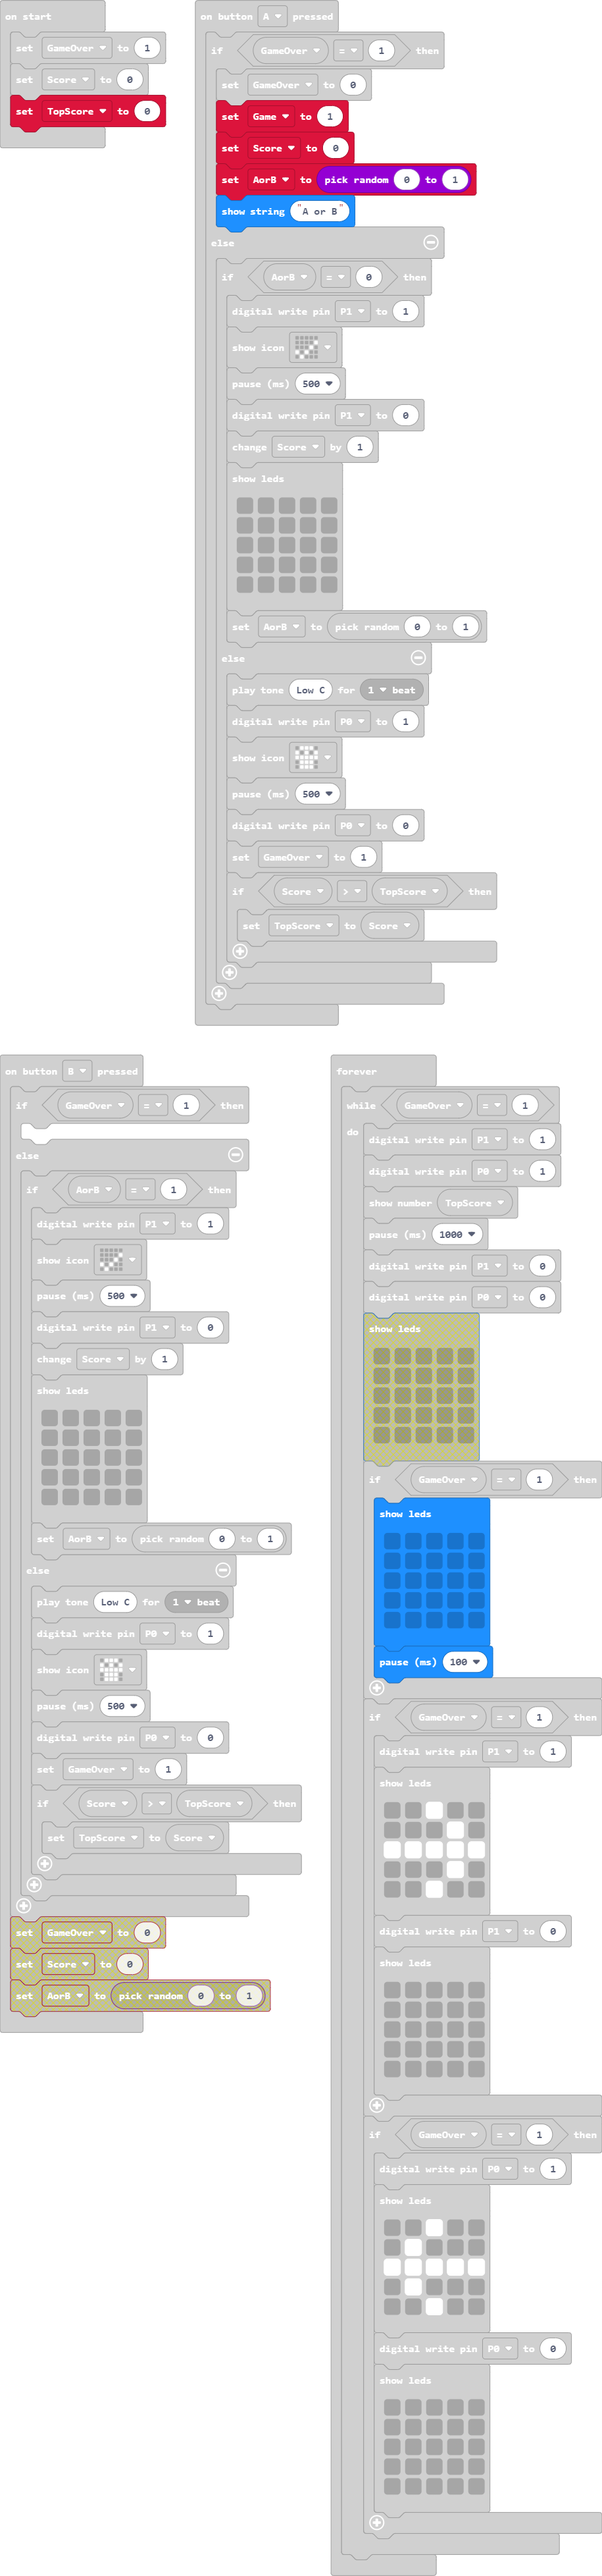
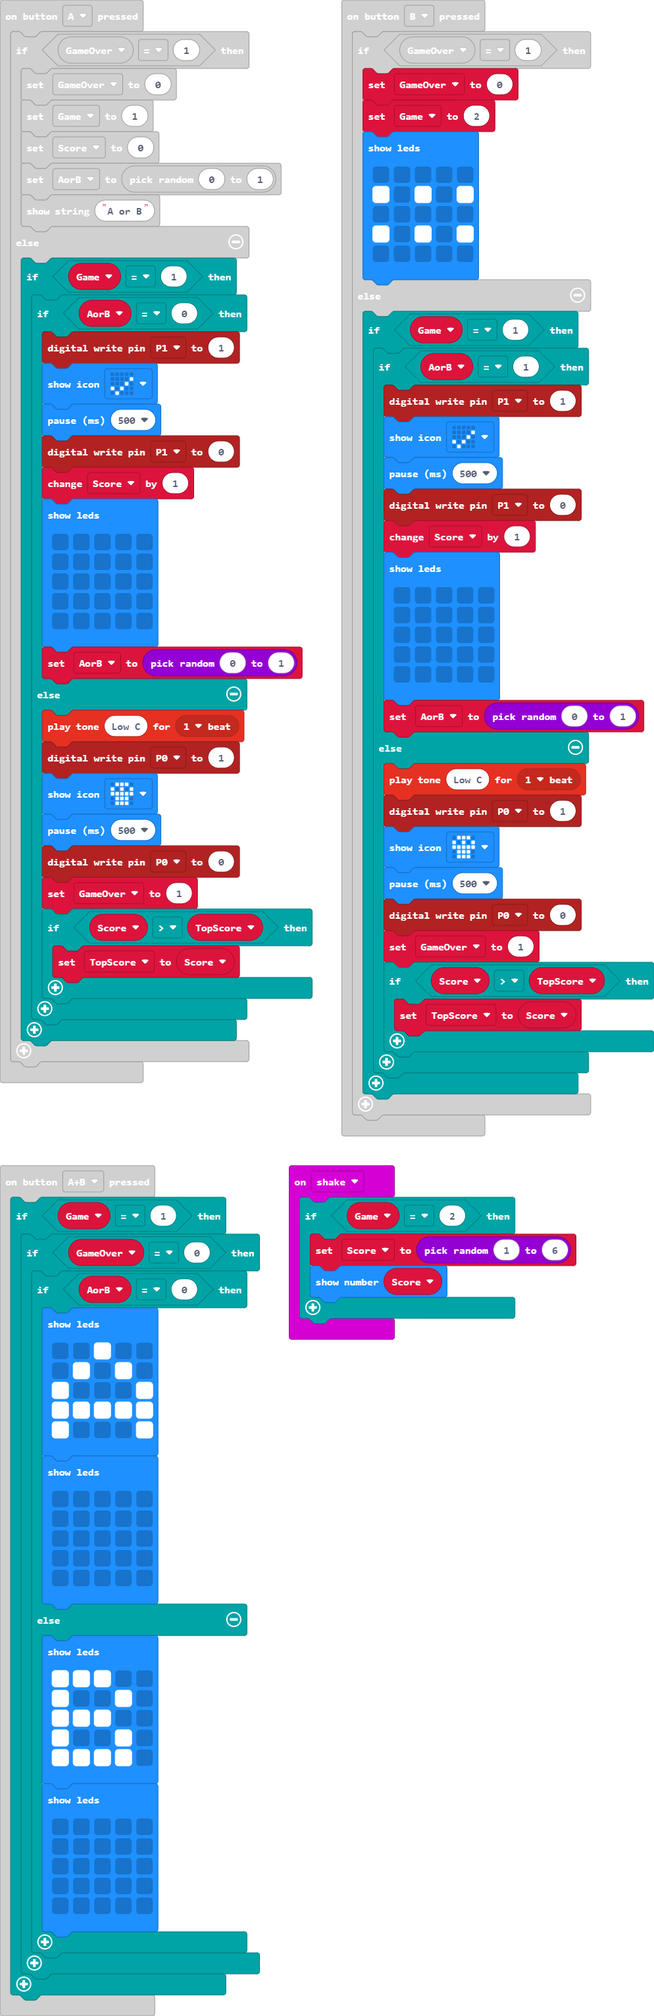
Added shake dice game

diff --git a/main.ts b/main.ts
@@ -6,97 +6,117 @@ input.onButtonPressed(Button.A, function () {
         AorB = randint(0, 1)
         basic.showString("A or B")
     } else {
-        if (AorB == 0) {
-            pins.digitalWritePin(DigitalPin.P1, 1)
-            basic.showIcon(IconNames.Yes)
-            basic.pause(500)
-            pins.digitalWritePin(DigitalPin.P1, 0)
-            Score += 1
-            basic.showLeds(`
-                . . . . .
-                . . . . .
-                . . . . .
-                . . . . .
-                . . . . .
-                `)
-            AorB = randint(0, 1)
-        } else {
-            music.playTone(131, music.beat(BeatFraction.Whole))
-            pins.digitalWritePin(DigitalPin.P0, 1)
-            basic.showIcon(IconNames.Skull)
-            basic.pause(500)
-            pins.digitalWritePin(DigitalPin.P0, 0)
-            GameOver = 1
-            if (Score > TopScore) {
-                TopScore = Score
+        if (Game == 1) {
+            if (AorB == 0) {
+                pins.digitalWritePin(DigitalPin.P1, 1)
+                basic.showIcon(IconNames.Yes)
+                basic.pause(500)
+                pins.digitalWritePin(DigitalPin.P1, 0)
+                Score += 1
+                basic.showLeds(`
+                    . . . . .
+                    . . . . .
+                    . . . . .
+                    . . . . .
+                    . . . . .
+                    `)
+                AorB = randint(0, 1)
+            } else {
+                music.playTone(131, music.beat(BeatFraction.Whole))
+                pins.digitalWritePin(DigitalPin.P0, 1)
+                basic.showIcon(IconNames.Skull)
+                basic.pause(500)
+                pins.digitalWritePin(DigitalPin.P0, 0)
+                GameOver = 1
+                if (Score > TopScore) {
+                    TopScore = Score
+                }
             }
         }
     }
 })
 input.onButtonPressed(Button.AB, function () {
-    if (GameOver == 0) {
-        if (AorB == 0) {
-            basic.showLeds(`
-                . . # . .
-                . # . # .
-                # . . . #
-                # # # # #
-                # . . . #
-                `)
-            basic.showLeds(`
-                . . . . .
-                . . . . .
-                . . . . .
-                . . . . .
-                . . . . .
-                `)
-        } else {
-            basic.showLeds(`
-                # # # . .
-                # . . # .
-                # # # . .
-                # . . # .
-                # # # # .
-                `)
-            basic.showLeds(`
-                . . . . .
-                . . . . .
-                . . . . .
-                . . . . .
-                . . . . .
-                `)
+    if (Game == 1) {
+        if (GameOver == 0) {
+            if (AorB == 0) {
+                basic.showLeds(`
+                    . . # . .
+                    . # . # .
+                    # . . . #
+                    # # # # #
+                    # . . . #
+                    `)
+                basic.showLeds(`
+                    . . . . .
+                    . . . . .
+                    . . . . .
+                    . . . . .
+                    . . . . .
+                    `)
+            } else {
+                basic.showLeds(`
+                    # # # . .
+                    # . . # .
+                    # # # . .
+                    # . . # .
+                    # # # # .
+                    `)
+                basic.showLeds(`
+                    . . . . .
+                    . . . . .
+                    . . . . .
+                    . . . . .
+                    . . . . .
+                    `)
+            }
         }
     }
 })
 input.onButtonPressed(Button.B, function () {
     if (GameOver == 1) {
-    	
+        GameOver = 0
+        Game = 2
+        basic.showLeds(`
+            . . . . .
+            # . # . #
+            . . . . .
+            # . # . #
+            . . . . .
+            `)
     } else {
-        if (AorB == 1) {
-            pins.digitalWritePin(DigitalPin.P1, 1)
-            basic.showIcon(IconNames.Yes)
-            basic.pause(500)
-            pins.digitalWritePin(DigitalPin.P1, 0)
-            Score += 1
-            basic.showLeds(`
-                . . . . .
-                . . . . .
-                . . . . .
-                . . . . .
-                . . . . .
-                `)
-            AorB = randint(0, 1)
-        } else {
-            music.playTone(131, music.beat(BeatFraction.Whole))
-            pins.digitalWritePin(DigitalPin.P0, 1)
-            basic.showIcon(IconNames.Skull)
-            basic.pause(500)
-            pins.digitalWritePin(DigitalPin.P0, 0)
-            GameOver = 1
-            if (Score > TopScore) {
-                TopScore = Score
+        if (Game == 1) {
+            if (AorB == 1) {
+                pins.digitalWritePin(DigitalPin.P1, 1)
+                basic.showIcon(IconNames.Yes)
+                basic.pause(500)
+                pins.digitalWritePin(DigitalPin.P1, 0)
+                Score += 1
+                basic.showLeds(`
+                    . . . . .
+                    . . . . .
+                    . . . . .
+                    . . . . .
+                    . . . . .
+                    `)
+                AorB = randint(0, 1)
+            } else {
+                music.playTone(131, music.beat(BeatFraction.Whole))
+                pins.digitalWritePin(DigitalPin.P0, 1)
+                basic.showIcon(IconNames.Skull)
+                basic.pause(500)
+                pins.digitalWritePin(DigitalPin.P0, 0)
+                GameOver = 1
+                if (Score > TopScore) {
+                    TopScore = Score
+                }
             }
         }
+    }
+})
+input.onGesture(Gesture.Shake, function () {
+    if (Game == 2) {
+        Score = randint(1, 6)
+        basic.showNumber(Score)
     }
 })
 let AorB = 0
